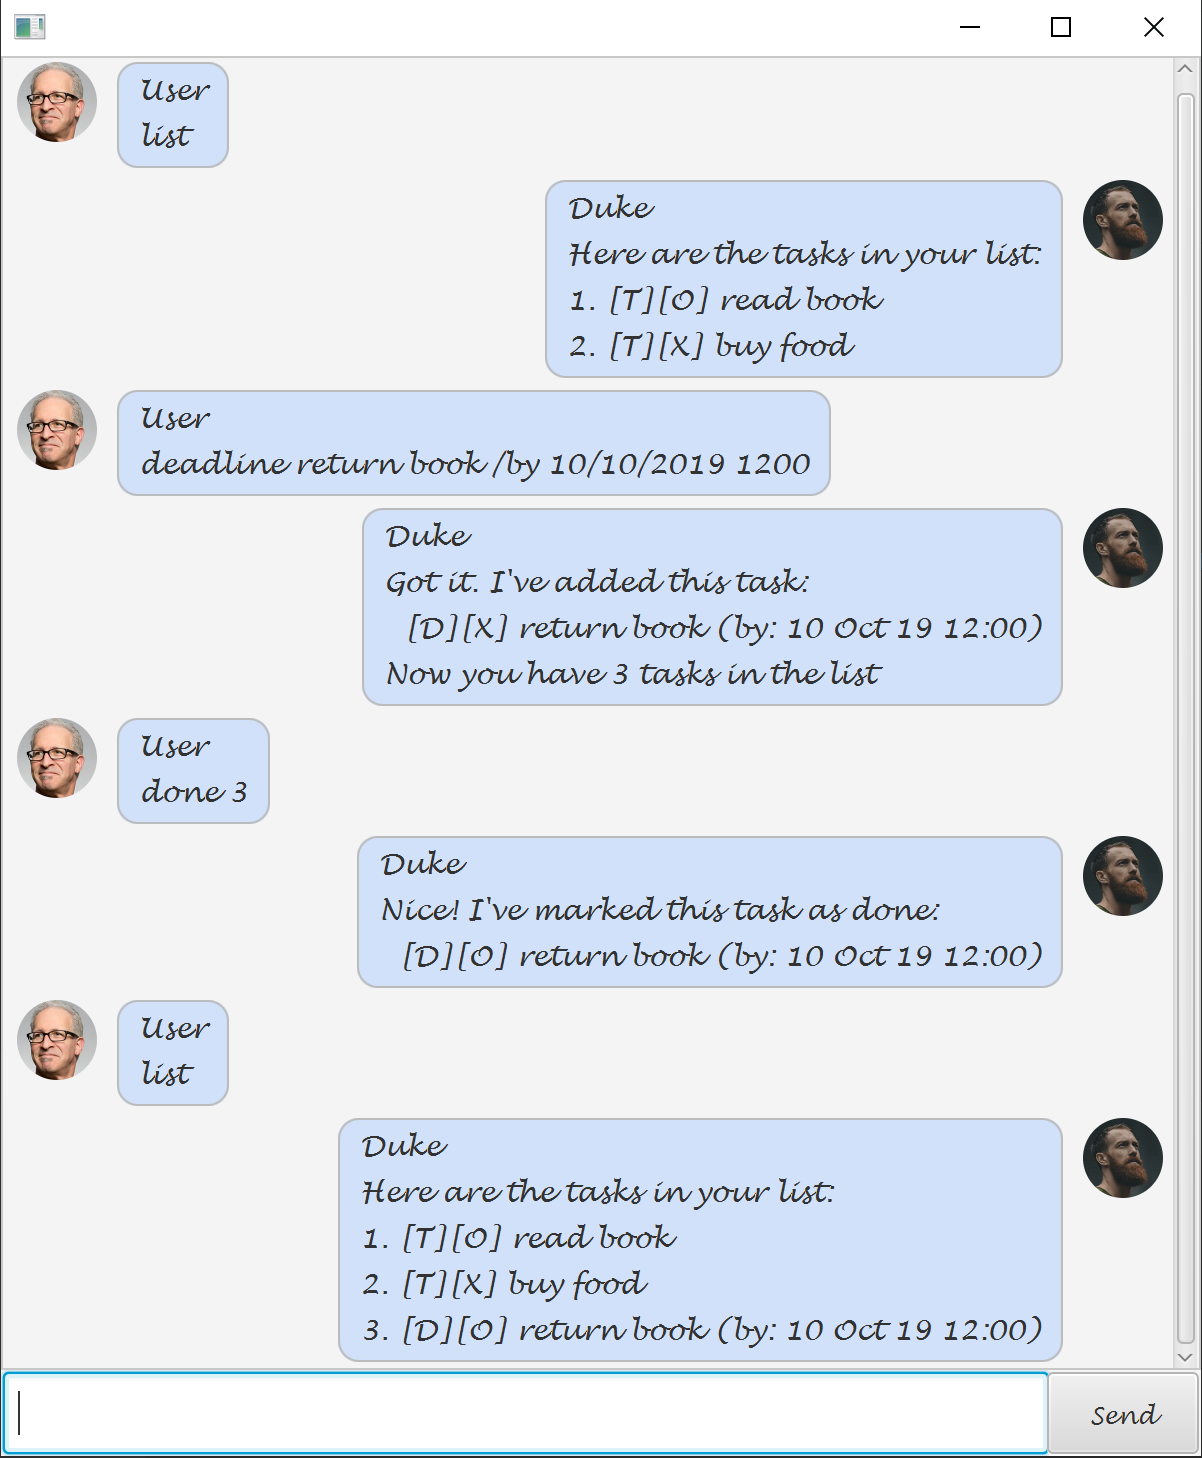
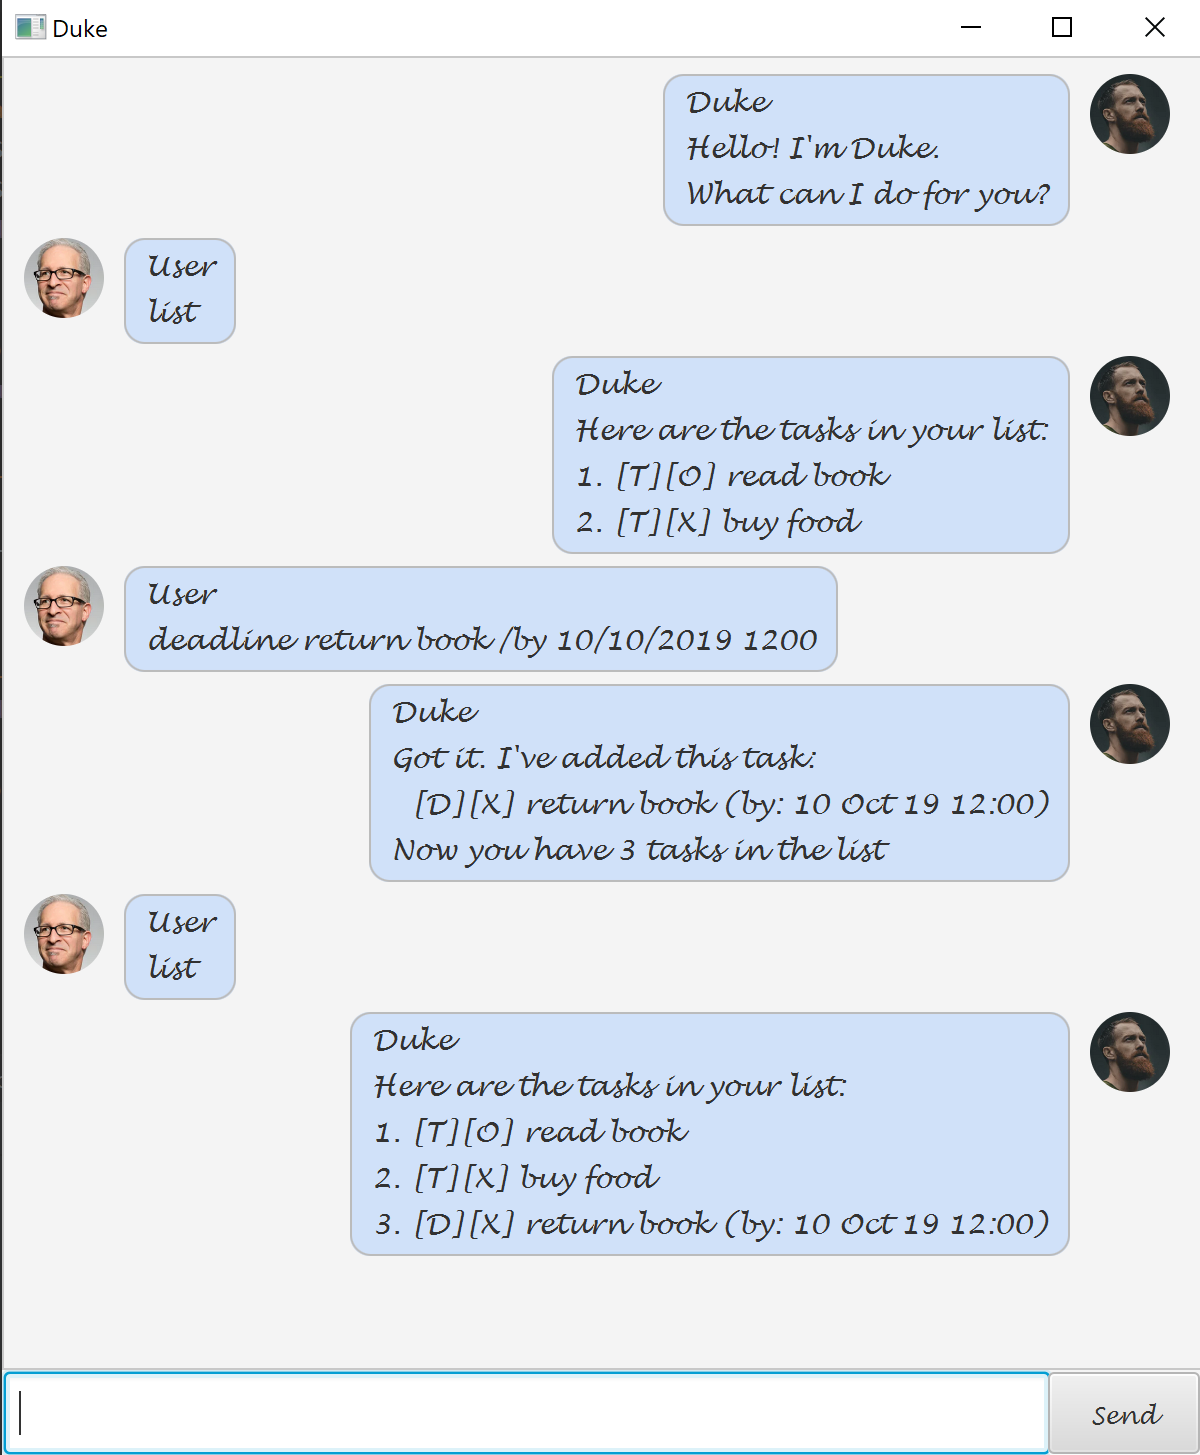
Update ui

diff --git a/src/main/resources/view/main.css b/src/main/resources/view/main.css
@@ -20,11 +20,11 @@ RightDialogBox Label, LeftDialogBox Label {
 }
 
 RightDialogBox Label {
-    -fx-border-insets: 0 10px 0 30px;
-    -fx-background-insets: 0 10px 0 30px;
+    -fx-border-insets: 0 10px 0 50px;
+    -fx-background-insets: 0 10px 0 50px;
 }
 
 LeftDialogBox Label {
-    -fx-border-insets: 0 30px 0 10px;
-    -fx-background-insets: 0 30px 0 10px;
+    -fx-border-insets: 0 50px 0 10px;
+    -fx-background-insets: 0 50px 0 10px;
 }

diff --git a/src/main/java/duke/ui/Ui.java b/src/main/java/duke/ui/Ui.java
@@ -14,7 +14,7 @@ public class Ui {
     protected TaskList tasks;
     public String line = "    ____________________________________________________________";
     public String indent = "     ";
-    public String hiMsg = "Hello! I'm duke.core.Duke" + "\n" + indent + "What can I do for you?";
+    public String hiMsg = "Hello! I'm Duke.\nWhat can I do for you?";
     public String byeMsg = "Bye. Hope to see you again soon!";
     public String addMsg = "Got it. I've added this task:";
     public String doneMsg = "Nice! I've marked this task as done:";

diff --git a/src/main/java/duke/ui/MainWindow.java b/src/main/java/duke/ui/MainWindow.java
@@ -69,15 +69,13 @@ public class MainWindow extends AnchorPane {
         userInput.clear();
 
         if (duke.getExit()) {
-            try {
-                Thread.sleep(0);
-            } catch (InterruptedException e) {
-                Platform.exit();
-            }
+            Platform.exit();
         }
     }
 
     public void setHiMsg() {
-
+        dialogContainer.getChildren().add(
+                new RightDialogBox(duke.getUi().hiMsg, dukeImage)
+        );
     }
 }

diff --git a/src/main/java/duke/core/Duke.java b/src/main/java/duke/core/Duke.java
@@ -6,6 +6,7 @@ import duke.storage.Storage;
 import duke.task.TaskList;
 import duke.text.Parser;
 import duke.ui.Ui;
+import javafx.application.Application;
 
 public class Duke {
     protected TaskList tasks;
@@ -65,6 +66,14 @@ public class Duke {
 
     public boolean getExit() {
         return isExit;
+    }
+
+    /**
+     * Get ui of duke.
+     * @return ui object.
+     */
+    public Ui getUi() {
+        return ui;
     }
 
     /**

diff --git a/src/main/java/duke/core/Main.java b/src/main/java/duke/core/Main.java
@@ -18,6 +18,7 @@ public class Main extends Application {
         mainWindow.setDuke(duke);
         mainWindow.setHiMsg();
         stage.setScene(new Scene(mainWindow));
+        stage.setTitle("Duke");
         stage.show();
     }
 }
